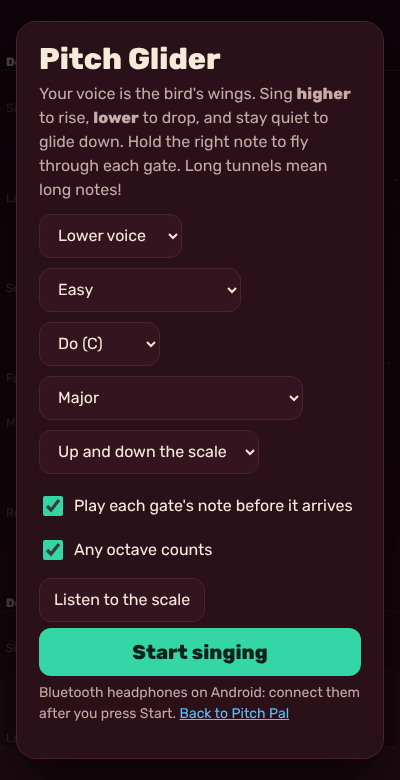
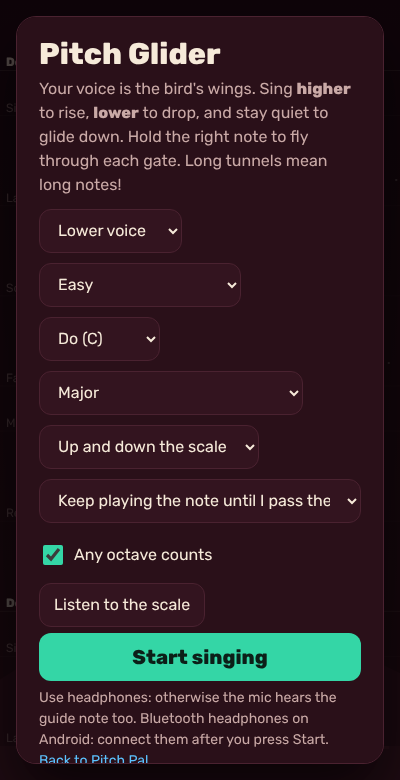
Pitch Glider: keep playing the guide note until the gate is passed
Claude-Session: https://claude.ai/code/session_01F1MwCQZm1ikPFmdXvYPEhy

diff --git a/index.html b/index.html
@@ -62,12 +62,12 @@ a{color:var(--lo)}
       <select id="scale" aria-label="Scale type"><option value="0,2,4,5,7,9,11">Major</option><option value="0,2,3,5,7,8,10">Minor</option><option value="0,2,4,7,9">Pentatonic major</option><option value="0,3,5,7,10">Pentatonic minor</option><option value="0,4,7">Major chord only (Do-Mi-Sol)</option><option value="0,1,2,3,4,5,6,7,8,9,10,11">All notes (chromatic)</option></select>
       <select id="order" aria-label="Note order"><option value="up">Up and down the scale</option><option value="rand">Random notes</option><option value="near">Random, small steps</option></select>
     </div>
-    <label><input type="checkbox" id="hint" checked> Play each gate's note before it arrives</label><br>
+    <div class="row"><select id="guide" aria-label="Guide note"><option value="hold" selected>Keep playing the note until I pass the gate</option><option value="hint">Play each note once, briefly</option><option value="off">No guide note</option></select></div>
     <label><input type="checkbox" id="fold" checked> Any octave counts</label><br>
     <button id="listen" style="margin-top:6px">Listen to the scale</button>
     <button class="go" id="goBtn">Start singing</button>
     <p class="err" id="err" hidden></p>
-    <p style="font-size:14px">Bluetooth headphones on Android: connect them after you press Start. <a href="pitch-pal.html">Back to Pitch Pal</a></p>
+    <p style="font-size:14px">Use headphones: otherwise the mic hears the guide note too. Bluetooth headphones on Android: connect them after you press Start. <a href="pitch-pal.html">Back to Pitch Pal</a></p>
   </div>
 </div>
 
@@ -127,6 +127,16 @@ function tone(m,dur){
   o.type='triangle';o.frequency.value=m2f(m);o.connect(gn);gn.connect(ctx.destination);
   gn.gain.setValueAtTime(0,t);gn.gain.linearRampToValueAtTime(0.18,t+0.03);gn.gain.setValueAtTime(0.18,t+dur-0.1);gn.gain.linearRampToValueAtTime(0,t+dur);o.start(t);o.stop(t+dur);
 }
+let gv=null;
+function guide(note){ // a soft, steady guide tone; note=null fades it out
+  if(!ctx)return;const t=ctx.currentTime;
+  if(!gv){const o=ctx.createOscillator(),o2=ctx.createOscillator(),gn=ctx.createGain(),g2=ctx.createGain();o.type='triangle';o2.type='sine';g2.gain.value=0.2;
+    o.connect(gn);o2.connect(g2);g2.connect(gn);gn.connect(ctx.destination);gn.gain.value=0;o.start();o2.start();gv={o,o2,gn,note:null}}
+  if(note==null){if(gv.note!=null)gv.gn.gain.setTargetAtTime(0,t,0.06);gv.note=null;return}
+  if(gv.note!==note){gv.o.frequency.setTargetAtTime(m2f(note),t,0.02);gv.o2.frequency.setTargetAtTime(2*m2f(note),t,0.02);
+    if(gv.note==null){gv.o.frequency.setValueAtTime(m2f(note),t);gv.o2.frequency.setValueAtTime(2*m2f(note),t)}
+    gv.gn.gain.setTargetAtTime(0.13,t,0.04);gv.note=note}
+}
 function ding(){if(!ctx)return;const o=ctx.createOscillator(),gn=ctx.createGain(),t=ctx.currentTime;o.type='sine';o.frequency.setValueAtTime(1320,t);o.frequency.setValueAtTime(1760,t+0.07);o.connect(gn);gn.connect(ctx.destination);gn.gain.setValueAtTime(0.08,t);gn.gain.exponentialRampToValueAtTime(0.001,t+0.25);o.start(t);o.stop(t+0.26)}
 
 function newGame(){
@@ -168,7 +178,7 @@ function step(dt){
   const px=S.dist+PX(),r=14;let inside=false;
   for(const o of S.obs){
     const sx=o.x-S.dist;
-    if($('hint').checked&&!o.hinted&&sx<PX()+S.speed*S.L.lead){o.hinted=true;tone(o.note,0.8)}
+    if($('guide').value==='hint'&&!o.hinted&&sx<PX()+S.speed*S.L.lead){o.hinted=true;tone(o.note,0.8)}
     const gh=Math.max(r+10,S.gap*(GROUND()-TOP())/(hi-lo)),gy=Y(o.note);
     if(px+r>o.x&&px-r<o.x+o.len){
       if(S.y-r<gy-gh||S.y+r>gy+gh){if(S.inv<=0&&!o.hit){o.hit=true;S.lives--;S.inv=1.4;S.shake=0.4;S.hold=0;if(S.lives<=0)return end()}}
@@ -182,6 +192,7 @@ function step(dt){
   for(const p of S.parts){p.x+=p.vx*dt;p.y+=p.vy*dt;p.vy+=300*dt;p.life-=dt}S.parts=S.parts.filter(p=>p.life>0);
   $('hScore').textContent=Math.round(S.score).toLocaleString();$('hGates').textContent=S.gates;$('hLives').textContent='♥'.repeat(Math.max(0,S.lives))+'♡'.repeat(S.L.lives-Math.max(0,S.lives));
   S.inside=inside;
+  if($('guide').value==='hold'){const tgt=S.obs.find(o=>!o.passed&&o.x+o.len>px-r-2&&o.x-S.dist<PX()+S.speed*S.L.lead);guide(tgt?tgt.note:null)}else guide(null);
   if(ahead){$('tNote').textContent=sol(ahead.note);const tg=Math.max(0.5,S.gap*0.8);
     const dd=S.pitch==null?null:S.pitch-ahead.note;$('tDir').textContent=dd==null?'sing now…':Math.abs(dd)<=tg?'✓ hold it!':dd<0?'▲ go higher':'▼ go lower';
     $('tDir').style.color=dd==null?'#c9a9a6':Math.abs(dd)<=tg?'#34d6a6':dd<0?'#5cc3ff':'#ff8a4c'}
@@ -237,7 +248,7 @@ function loop(ts){
   draw();requestAnimationFrame(loop);
 }
 function end(){
-  running=false;$('hud').hidden=true;$('target').hidden=true;
+  running=false;guide(null);$('hud').hidden=true;$('target').hidden=true;
   const sc=Math.round(S.score);try{best=+localStorage.getItem('pitchglider:best')||0;if(sc>best){localStorage.setItem('pitchglider:best',sc);best=sc;$('eBest').textContent='New high score!'}else $('eBest').textContent='High score: '+best.toLocaleString()}catch(e){$('eBest').textContent=' '}
   $('eScore').textContent=sc.toLocaleString();$('eGates').textContent=S.gates;$('eSec').textContent=S.onSec.toFixed(1)+' s';$('eHold').textContent=S.holdBest.toFixed(1)+' s';$('eDist').textContent=Math.round(S.dist/100)+' m';
   $('end').hidden=false;
@@ -251,7 +262,7 @@ $('listen').onclick=()=>{ctx=ctx||new AudioContext();ctx.resume();const k=+$('ke
   let root=b+((k-b)%12+12)%12;if(root>b+5)root-=12;const ns=[...sc.map(x=>root+x),root+12];[...ns,...ns.slice(0,-1).reverse()].forEach((m,i)=>setTimeout(()=>tone(m,0.45),i*480))};
 $('goBtn').onclick=go;$('againBtn').onclick=go;
 $('menuBtn').onclick=()=>{$('end').hidden=true;$('start').hidden=false};
-document.addEventListener('visibilitychange',()=>{if(document.hidden&&running){running=false;$('hud').hidden=true;$('target').hidden=true;$('start').hidden=false;$('goBtn').textContent='Start again'}});
+document.addEventListener('visibilitychange',()=>{if(document.hidden&&running){running=false;guide(null);$('hud').hidden=true;$('target').hidden=true;$('start').hidden=false;$('goBtn').textContent='Start again'}});
 requestAnimationFrame(loop);
 }
 </script>
